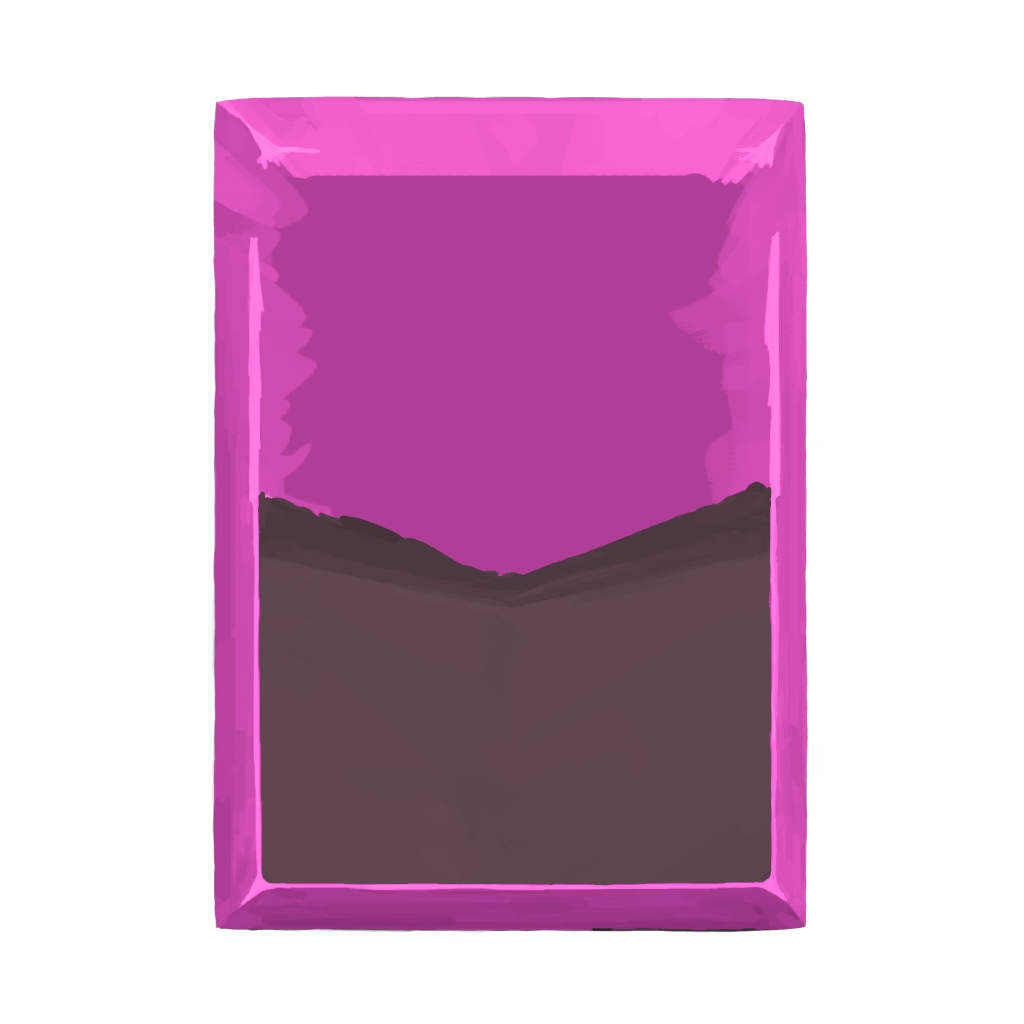
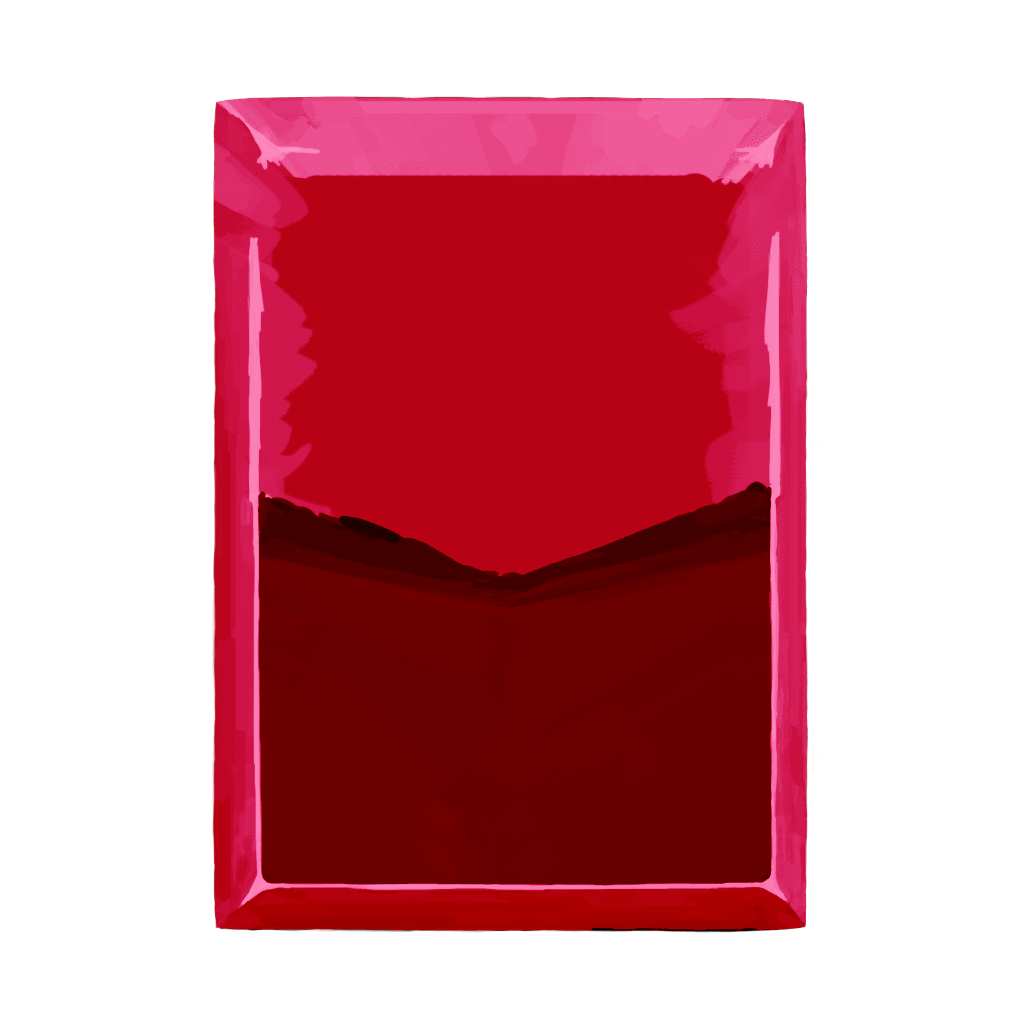
===Changes=== Images: attack_bl.png attack_bl_p.png Blood.png Button.png portrait.png power_bl.png power_bl_p.png skill_bl.png skill_bl_p.png - changed for better(i hope) BLBloodcostCard.java - test new glow color(red) CoreEssence.java - hope works as intended(need test)
===BugFixes===
MadEye.java
RedMadEye.java
SanguineMadEye.java - fixed endless debuff state
TapTemp.java - fixed rarity(now SPECIAL)

===New===
Sanguine form pow.png
Sanguine pool pow.png
Shadow form pow.png
Blood mist pow.png
Blood oath pow.png
Baleful journey pow.png
Bat form pow.png
Madness form pow.png
Painful memories pow.png
Blood walk pow.png - new icons for powers

diff --git a/src/main/java/BL/Relics/CoreEssence.java b/src/main/java/BL/Relics/CoreEssence.java
@@ -1,6 +1,7 @@
 package BL.Relics;
 
 import BL.BLCharacter;
+import BL.BLClassEnum;
 import BL.Powers.Blood;
 import basemod.abstracts.CustomRelic;
 import com.badlogic.gdx.graphics.Texture;
@@ -8,9 +9,10 @@ import com.megacrit.cardcrawl.actions.common.ApplyPowerAction;
 import com.megacrit.cardcrawl.actions.common.GainBlockAction;
 import com.megacrit.cardcrawl.actions.common.GainEnergyAction;
 import com.megacrit.cardcrawl.actions.common.RelicAboveCreatureAction;
+import com.megacrit.cardcrawl.cards.DamageInfo;
 import com.megacrit.cardcrawl.characters.AbstractPlayer;
 import com.megacrit.cardcrawl.dungeons.AbstractDungeon;
-import com.megacrit.cardcrawl.helpers.ImageMaster;
+import com.megacrit.cardcrawl.helpers.PowerTip;
 import com.megacrit.cardcrawl.monsters.AbstractMonster;
 import com.megacrit.cardcrawl.powers.AbstractPower;
 import com.megacrit.cardcrawl.relics.AbstractRelic;
@@ -19,25 +21,32 @@ public class CoreEssence extends CustomRelic {
     public static final String ID = "BLMod:CoreEssence";
     private static final String IMG_PATH = "img/relics/BloodCore.png";
     private static final Texture IMG = new Texture(IMG_PATH);
-    private static final String DES_P1 = "Defeat enemies and absorb Blood to awaken Core Essence. Current essence : ";
     private static final int ESSENCE_NEEDED_AMOUNT = 50;
     private static final int AWAKEN_ENERGY_AMOUNT = 1;
     private static final int AWAKEN_BLOOD_AMOUNT = 2;
     private static final int AWAKEN_BLOCK_AMOUNT = 8;
-    private static final String DES_P2 = "The Blood Core is alive! At the start of battle gain: "+ AWAKEN_ENERGY_AMOUNT +" [E] "+ AWAKEN_BLOOD_AMOUNT +" Blood and "+ AWAKEN_BLOCK_AMOUNT +" Block";
-    private boolean awaken = false;
-    private int essenceAmount;
+    private static final int ESSENCE_FOR_KILL_AMOUNT = 3;
+    private static final String DES_P1 = "Defeat enemies and absorb Blood to awaken Core Essence. (at least "+ ESSENCE_NEEDED_AMOUNT +")";
+    private static final String DES_P2 = "The Core is alive! At the start of battle gain: "+ AWAKEN_ENERGY_AMOUNT +" [E] "+ AWAKEN_BLOOD_AMOUNT +" Blood and "+ AWAKEN_BLOCK_AMOUNT +" Block";
+    private boolean awaken;
+    private boolean isFirstRoom;
 
     public CoreEssence() {
         super(ID, IMG, AbstractRelic.RelicTier.STARTER, AbstractRelic.LandingSound.MAGICAL);
         this.awaken = false;
-        this.essenceAmount = 0;
+        this.counter = 0;
+        this.isFirstRoom = true;
     }
     public void atBattleStart() {
+        if(isFirstRoom) {
+            this.isFirstRoom = false;
+            AbstractDungeon.player.damage(new DamageInfo(AbstractDungeon.player, BLCharacter.MAX_HP - BLCharacter.STARTING_HP));
+        }
         if(!this.awaken)
-            if(this.essenceAmount >= ESSENCE_NEEDED_AMOUNT)
+            if(this.counter >= ESSENCE_NEEDED_AMOUNT) {
                 this.awaken = true;
-
+                this.updateDescription(BLClassEnum.BloodLord);
+            }
         if(this.awaken) {
             this.flash();
             this.addToBot(new RelicAboveCreatureAction(AbstractDungeon.player, this));
@@ -45,25 +54,32 @@ public class CoreEssence extends CustomRelic {
             this.addToBot(new ApplyPowerAction(AbstractDungeon.player, AbstractDungeon.player, new Blood(AbstractDungeon.player,AWAKEN_BLOOD_AMOUNT),AWAKEN_BLOOD_AMOUNT));
             this.addToBot(new GainBlockAction(AbstractDungeon.player, AWAKEN_BLOCK_AMOUNT));
         }
-        this.getUpdatedDescription();
     }
 
     public void onMonsterDeath(AbstractMonster m) {
-        this.essenceAmount += 3;
+        if(this.counter >= ESSENCE_NEEDED_AMOUNT)
+            return;
+        this.counter += ESSENCE_FOR_KILL_AMOUNT;
         if(AbstractDungeon.getCurrRoom().monsters.areMonstersDead()) {
             AbstractPower pow = AbstractDungeon.player.getPower("BLMod:Blood");
             if(pow != null)
-                this.essenceAmount += pow.amount;
+                this.counter += pow.amount;
         }
+    }
+
+    public void updateDescription(AbstractPlayer.PlayerClass c) {
+        this.description = this.getUpdatedDescription();
+        this.tips.clear();
+        this.tips.add(new PowerTip(this.name, this.description));
+        this.initializeTips();
     }
 
     @Override
     public String getUpdatedDescription() {
-        //return this.DESCRIPTIONS[0];
         if(this.awaken)
             return DES_P2;
         else
-            return DES_P1 + this.essenceAmount + "/" + ESSENCE_NEEDED_AMOUNT;
+            return DES_P1;
     }
 
     @Override
@@ -71,14 +87,4 @@ public class CoreEssence extends CustomRelic {
         return new CoreEssence();
     }
 
-    private void calculateEssence(){
-        int temp = 3 * AbstractDungeon.getCurrRoom().monsters.monsters.size();
-        AbstractPower pow = AbstractDungeon.player.getPower("BLMod:Blood");
-        if(pow != null)
-            temp += pow.amount;
-        if(temp < 0)
-            temp = 0;
-        this.essenceAmount += temp;
-
-    }
 }

diff --git a/src/main/java/BL/BLCharacter.java b/src/main/java/BL/BLCharacter.java
@@ -3,8 +3,6 @@ package BL;
 
 import BL.Cards.Attack.Common.Fang;
 import basemod.abstracts.CustomPlayer;
-import basemod.animations.AbstractAnimation;
-import basemod.animations.SpriterAnimation;
 import com.badlogic.gdx.graphics.Color;
 import com.badlogic.gdx.graphics.g2d.BitmapFont;
 import com.megacrit.cardcrawl.actions.AbstractGameAction;
@@ -12,10 +10,8 @@ import com.megacrit.cardcrawl.cards.AbstractCard;
 import com.megacrit.cardcrawl.characters.AbstractPlayer;
 import com.megacrit.cardcrawl.core.CardCrawlGame;
 import com.megacrit.cardcrawl.core.EnergyManager;
-import com.megacrit.cardcrawl.dungeons.AbstractDungeon;
 import com.megacrit.cardcrawl.helpers.FontHelper;
 import com.megacrit.cardcrawl.helpers.ScreenShake;
-import com.megacrit.cardcrawl.powers.AbstractPower;
 import com.megacrit.cardcrawl.screens.CharSelectInfo;
 import com.megacrit.cardcrawl.unlock.UnlockTracker;
 
@@ -28,8 +24,9 @@ public class BLCharacter extends CustomPlayer {
     public static final String SHOULDER_2 = "img/shoulder2.png";
     public static final String CORPSE = "img/corpse.png";
     public static final String CHAR_IMAGE = "img/char_bl.png";
-    public static final String NAME = "Test Blood Lord";
-    public static final String DESCRIPTION = "Here comes description";
+    public static final String NAME = "Blood Lord";
+    public static final String DESCRIPTION = "How did you end up here... You don't remember. You feel... weak? This feeling is new for you. You feel hunger, the urge to consume" +
+            "the very essence of life... You must become stronger, you must remember who you were... and the road only leads forward...";
     public static final int STARTING_HP = 23;
     public static final int MAX_HP = 43;
     public static final int ORB_SLOTS = 0;
@@ -43,7 +40,6 @@ public class BLCharacter extends CustomPlayer {
         super(name, BLClassEnum.BloodLord, null, null, null, (String) null);
         initializeClass(CHAR_IMAGE, SHOULDER_2, SHOULDER_1, CORPSE, getLoadout(), 20.0F, -10.0F, 220.0F, 290.0F, new EnergyManager(ENERGY_PER_TURN));
         this.ruinousReveletionDiscardCount = 0;
-        this.currentHealth -= 20;
     }
 
     public Color getSlashAttackColor() {
@@ -80,8 +76,6 @@ public class BLCharacter extends CustomPlayer {
         ArrayList<String> retVal = new ArrayList<>();
         retVal.add("BLMod:CoreEssence");
         UnlockTracker.markRelicAsSeen("BLMod:CoreEssence");
-        //retVal.add("Burning Blood");
-        //UnlockTracker.markRelicAsSeen("Burning Blood");
         return retVal;
     }
 

diff --git a/src/main/java/BL/Abstract/BLBloodcostCard.java b/src/main/java/BL/Abstract/BLBloodcostCard.java
@@ -2,6 +2,7 @@ package BL.Abstract;
 
 import BL.Powers.Blood;
 import basemod.abstracts.CustomCard;
+import com.badlogic.gdx.graphics.Color;
 import com.megacrit.cardcrawl.actions.common.ApplyPowerAction;
 import com.megacrit.cardcrawl.cards.AbstractCard;
 import com.megacrit.cardcrawl.characters.AbstractPlayer;
@@ -10,10 +11,12 @@ import com.megacrit.cardcrawl.monsters.AbstractMonster;
 import com.megacrit.cardcrawl.powers.AbstractPower;
 
 public abstract class BLBloodcostCard extends CustomCard {
+    protected static final Color RED_BORDER_GLOW_COLOR = Color.RED.cpy();
     private int blood_cost;
     private boolean isCostAllBlood;
     private boolean isCostFixed;
     private int bloodSpend;
+
 
     public BLBloodcostCard(String id, String name, String img, int cost, int bloodcost, String rawDescription, AbstractCard.CardType type, AbstractCard.CardColor color, AbstractCard.CardRarity rarity, AbstractCard.CardTarget target){
         super(id, name, img, cost, rawDescription, type, color, rarity, target);
@@ -23,6 +26,7 @@ public abstract class BLBloodcostCard extends CustomCard {
             this.blood_cost = 0;
         this.bloodSpend = 0;
         this.isCostFixed = true;
+
     }
 
     public void SetBloodcostToAll() {
@@ -81,12 +85,14 @@ public abstract class BLBloodcostCard extends CustomCard {
 
     public void triggerOnGlowCheck() {
         boolean glow = true;
+        if(this.isCostAllBlood)
+            glow = false;
         AbstractPower pow = AbstractDungeon.player.getPower("BLMod:Blood");
         if(pow != null)
-            if (pow.amount < this.blood_cost || isCostAllBlood)
+            if (pow.amount < this.blood_cost)
                 glow = false;
         if (glow) {
-            this.glowColor = AbstractCard.GOLD_BORDER_GLOW_COLOR.cpy();
+            this.glowColor = RED_BORDER_GLOW_COLOR.cpy();//AbstractCard.GOLD_BORDER_GLOW_COLOR.cpy();
         } else {
             this.glowColor = AbstractCard.BLUE_BORDER_GLOW_COLOR.cpy();
         }

diff --git a/src/main/java/BL/Cards/Attack/Uncommon/RedMadEye.java b/src/main/java/BL/Cards/Attack/Uncommon/RedMadEye.java
@@ -35,8 +35,8 @@ public class RedMadEye extends BLBloodcostCard {
 
     }
     public void useEffect(AbstractPlayer p, AbstractMonster m){
-        this.addToBot(new ApplyPowerAction(m, p, new WeakPower(p, this.magicNumber, false), this.magicNumber));
-        this.addToBot(new ApplyPowerAction(m, p, new FrailPower(p, this.magicNumber, false), this.magicNumber));
+        this.addToBot(new ApplyPowerAction(m, p, new WeakPower(m, this.magicNumber, false), this.magicNumber));
+        this.addToBot(new ApplyPowerAction(m, p, new FrailPower(m, this.magicNumber, false), this.magicNumber));
         this.addToBot(new DamageAction(m, new DamageInfo(p, this.damage, this.damageTypeForTurn), AbstractGameAction.AttackEffect.FIRE));
 
     }
@@ -58,8 +58,8 @@ public class RedMadEye extends BLBloodcostCard {
     public void triggerOnManualDiscard() {
         AbstractCreature mon = AbstractDungeon.getCurrRoom().monsters.getRandomMonster(true);
         if(mon != null) {
-            this.addToBot(new ApplyPowerAction( mon, AbstractDungeon.player, new WeakPower(AbstractDungeon.player, this.magicNumber, false), this.magicNumber));
-            this.addToBot(new ApplyPowerAction( mon, AbstractDungeon.player, new FrailPower(AbstractDungeon.player, this.magicNumber, false), this.magicNumber));
+            this.addToBot(new ApplyPowerAction( mon, AbstractDungeon.player, new WeakPower(mon, this.magicNumber, false), this.magicNumber));
+            this.addToBot(new ApplyPowerAction( mon, AbstractDungeon.player, new FrailPower(mon, this.magicNumber, false), this.magicNumber));
         }
 
     }

diff --git a/src/main/java/BL/Cards/Attack/Rare/SanguineMadEye.java b/src/main/java/BL/Cards/Attack/Rare/SanguineMadEye.java
@@ -58,8 +58,8 @@ public class SanguineMadEye extends BLBloodcostCard {
 
     public void triggerOnManualDiscard(){
         AbstractCreature mon = AbstractDungeon.getCurrRoom().monsters.getRandomMonster(true);
-        this.addToBot(new ApplyPowerAction(mon, AbstractDungeon.player, new FrailPower(AbstractDungeon.player, this.magicNumber, false), this.magicNumber));
-        this.addToBot(new ApplyPowerAction(mon, AbstractDungeon.player, new VulnerablePower(AbstractDungeon.player, this.magicNumber, false), this.magicNumber));
+        this.addToBot(new ApplyPowerAction(mon, AbstractDungeon.player, new FrailPower(mon, this.magicNumber, false), this.magicNumber));
+        this.addToBot(new ApplyPowerAction(mon, AbstractDungeon.player, new VulnerablePower(mon, this.magicNumber, false), this.magicNumber));
         this.addToBot(new ApplyPowerAction(AbstractDungeon.player, AbstractDungeon.player, new Blood(AbstractDungeon.player, this.magicNumber), this.magicNumber));
     }
 }

diff --git a/src/main/java/BL/Powers/BloodMistPow.java b/src/main/java/BL/Powers/BloodMistPow.java
@@ -13,8 +13,9 @@ import com.megacrit.cardcrawl.powers.AbstractPower;
 
 public class BloodMistPow extends AbstractPower {
     public static final String POWER_ID = "BLMod:BloodMistPow";
-    public static final String NAME = "Blood Mist Power";
-    public static final String DESCRIPTION = "BLOOD MIST!";
+    public static final String NAME = "Blood Mist";
+    public static final String DESCRIPTION = "Repeat the first attack each round";
+    public static final String IMG_PATH = "img/powers/Blood mist pow.png";
     private static boolean ready;
 
     public BloodMistPow(AbstractCreature owner, int mistAmount) {
@@ -25,7 +26,7 @@ public class BloodMistPow extends AbstractPower {
         this.type = PowerType.BUFF;
         this.description = DESCRIPTION;
         ready = true;
-        this.img = new Texture("img/BalefulJourneyPow.png");
+        this.img = new Texture(IMG_PATH);
 
     }
 

diff --git a/src/main/java/BL/Powers/EvadeAttackPow.java b/src/main/java/BL/Powers/EvadeAttackPow.java
@@ -9,7 +9,8 @@ import com.megacrit.cardcrawl.powers.AbstractPower;
 public class EvadeAttackPow extends AbstractPower {
     public static final String POWER_ID = "BLMod:EvadeAttackPow";
     public static final String NAME = "Bat form";
-    public static final String DESCRIPTION = "You are bat!";
+    public static final String DESCRIPTION = "Evade next attack";
+    public static final String IMG_PATH = "img/powers/Bat form pow.png";
 
     public EvadeAttackPow(AbstractCreature owner, int evadeAmount) {
         this.name = NAME;
@@ -18,7 +19,7 @@ public class EvadeAttackPow extends AbstractPower {
         this.amount = evadeAmount;
         this.type = PowerType.BUFF;
         this.description = DESCRIPTION;
-        this.img = new Texture("img/BalefulJourneyPow.png");
+        this.img = new Texture(IMG_PATH);
 
     }
 

diff --git a/src/main/java/BL/Powers/MadnessFormPow.java b/src/main/java/BL/Powers/MadnessFormPow.java
@@ -13,6 +13,7 @@ public class MadnessFormPow extends AbstractPower{
     public static final String POWER_ID = "BLMod:MadnessFormPow";
     public static final String NAME = "Madness Form";
     public static final String DESCRIPTION = "Your madness progressing....and it's harmful.";
+    public static final String IMG_PATH = "img/powers/Madness form pow.png";
 
     public MadnessFormPow(AbstractCreature owner, int madnessAmount) {
         this.name = NAME;
@@ -21,7 +22,7 @@ public class MadnessFormPow extends AbstractPower{
         this.amount = madnessAmount;
         this.type = AbstractPower.PowerType.BUFF;
         this.description = DESCRIPTION;
-        this.img = new Texture("img/BalefulJourneyPow.png");
+        this.img = new Texture(IMG_PATH);
 
 
     }

diff --git a/src/main/java/BL/Powers/BalefulJourneyPow.java b/src/main/java/BL/Powers/BalefulJourneyPow.java
@@ -7,9 +7,9 @@ import com.megacrit.cardcrawl.powers.AbstractPower;
 
 public class BalefulJourneyPow extends AbstractPower {
     public static final String POWER_ID = "BLMod:BalefulJourneyPow";
-    public static final String NAME = "Baleful Journey Count";
-    public static final String DESCRIPTION = "You are on a journey";
-    public static final String IMG_PATH = "img/BalefulJourneyPow.png";
+    public static final String NAME = "Baleful Journey";
+    public static final String DESCRIPTION = "You are on a journey...";
+    public static final String IMG_PATH = "img/powers/Baleful journey pow.png";
 
     public BalefulJourneyPow(AbstractCreature owner, int amount) {
         this.name = NAME;

diff --git a/src/main/java/BL/Powers/BloodWalkPow.java b/src/main/java/BL/Powers/BloodWalkPow.java
@@ -10,9 +10,9 @@ import com.megacrit.cardcrawl.powers.AbstractPower;
 
 public class BloodWalkPow extends AbstractPower{
     public static final String POWER_ID = "BLMod:BloodWalkPow";
-    public static final String NAME = "Blood Walk Power";
-    public static final String DESCRIPTION = "You basically walk in blood!";
-    public static final String IMG_PATH = "img/BalefulJourneyPow.png";
+    public static final String NAME = "Blood Walk";
+    public static final String DESCRIPTION = "At end of your turn gain Blood and Block";
+    public static final String IMG_PATH = "img/powers/Blood walk pow.png";
 
     public BloodWalkPow(AbstractCreature owner, int amount) {
         this.name = NAME;

diff --git a/src/main/java/BL/Powers/SanguineFormPow.java b/src/main/java/BL/Powers/SanguineFormPow.java
@@ -10,8 +10,8 @@ import com.megacrit.cardcrawl.powers.StrengthPower;
 public class SanguineFormPow extends AbstractPower {
     public static final String POWER_ID = "BLMod:SanguineFormPow";
     public static final String NAME = "Sanguine Form";
-    public static final String DESCRIPTION = "Blood gives you strength!";
-    public static final String IMG_PATH = "img/BalefulJourneyPow.png";
+    public static final String DESCRIPTION = "When you gain Blood get that much Strength";
+    public static final String IMG_PATH = "img/powers/Sanguine form pow.png";
 
     public SanguineFormPow(AbstractCreature owner, int amount) {
         this.name = NAME;

diff --git a/src/main/java/BL/Powers/ShadowFormPow.java b/src/main/java/BL/Powers/ShadowFormPow.java
@@ -11,8 +11,8 @@ import com.megacrit.cardcrawl.powers.DexterityPower;
 public class ShadowFormPow extends AbstractPower {
     public static final String POWER_ID = "BLMod:ShadowFormPow";
     public static final String NAME = "Shadow Form";
-    public static final String DESCRIPTION = "Embrace the shadows!";
-    public static final String IMG_PATH = "img/BalefulJourneyPow.png";
+    public static final String DESCRIPTION = "When you gain Block get that much Dexterity";
+    public static final String IMG_PATH = "img/powers/Shadow form pow.png";
 
     public ShadowFormPow(AbstractCreature owner, int amount) {
         this.name = NAME;
